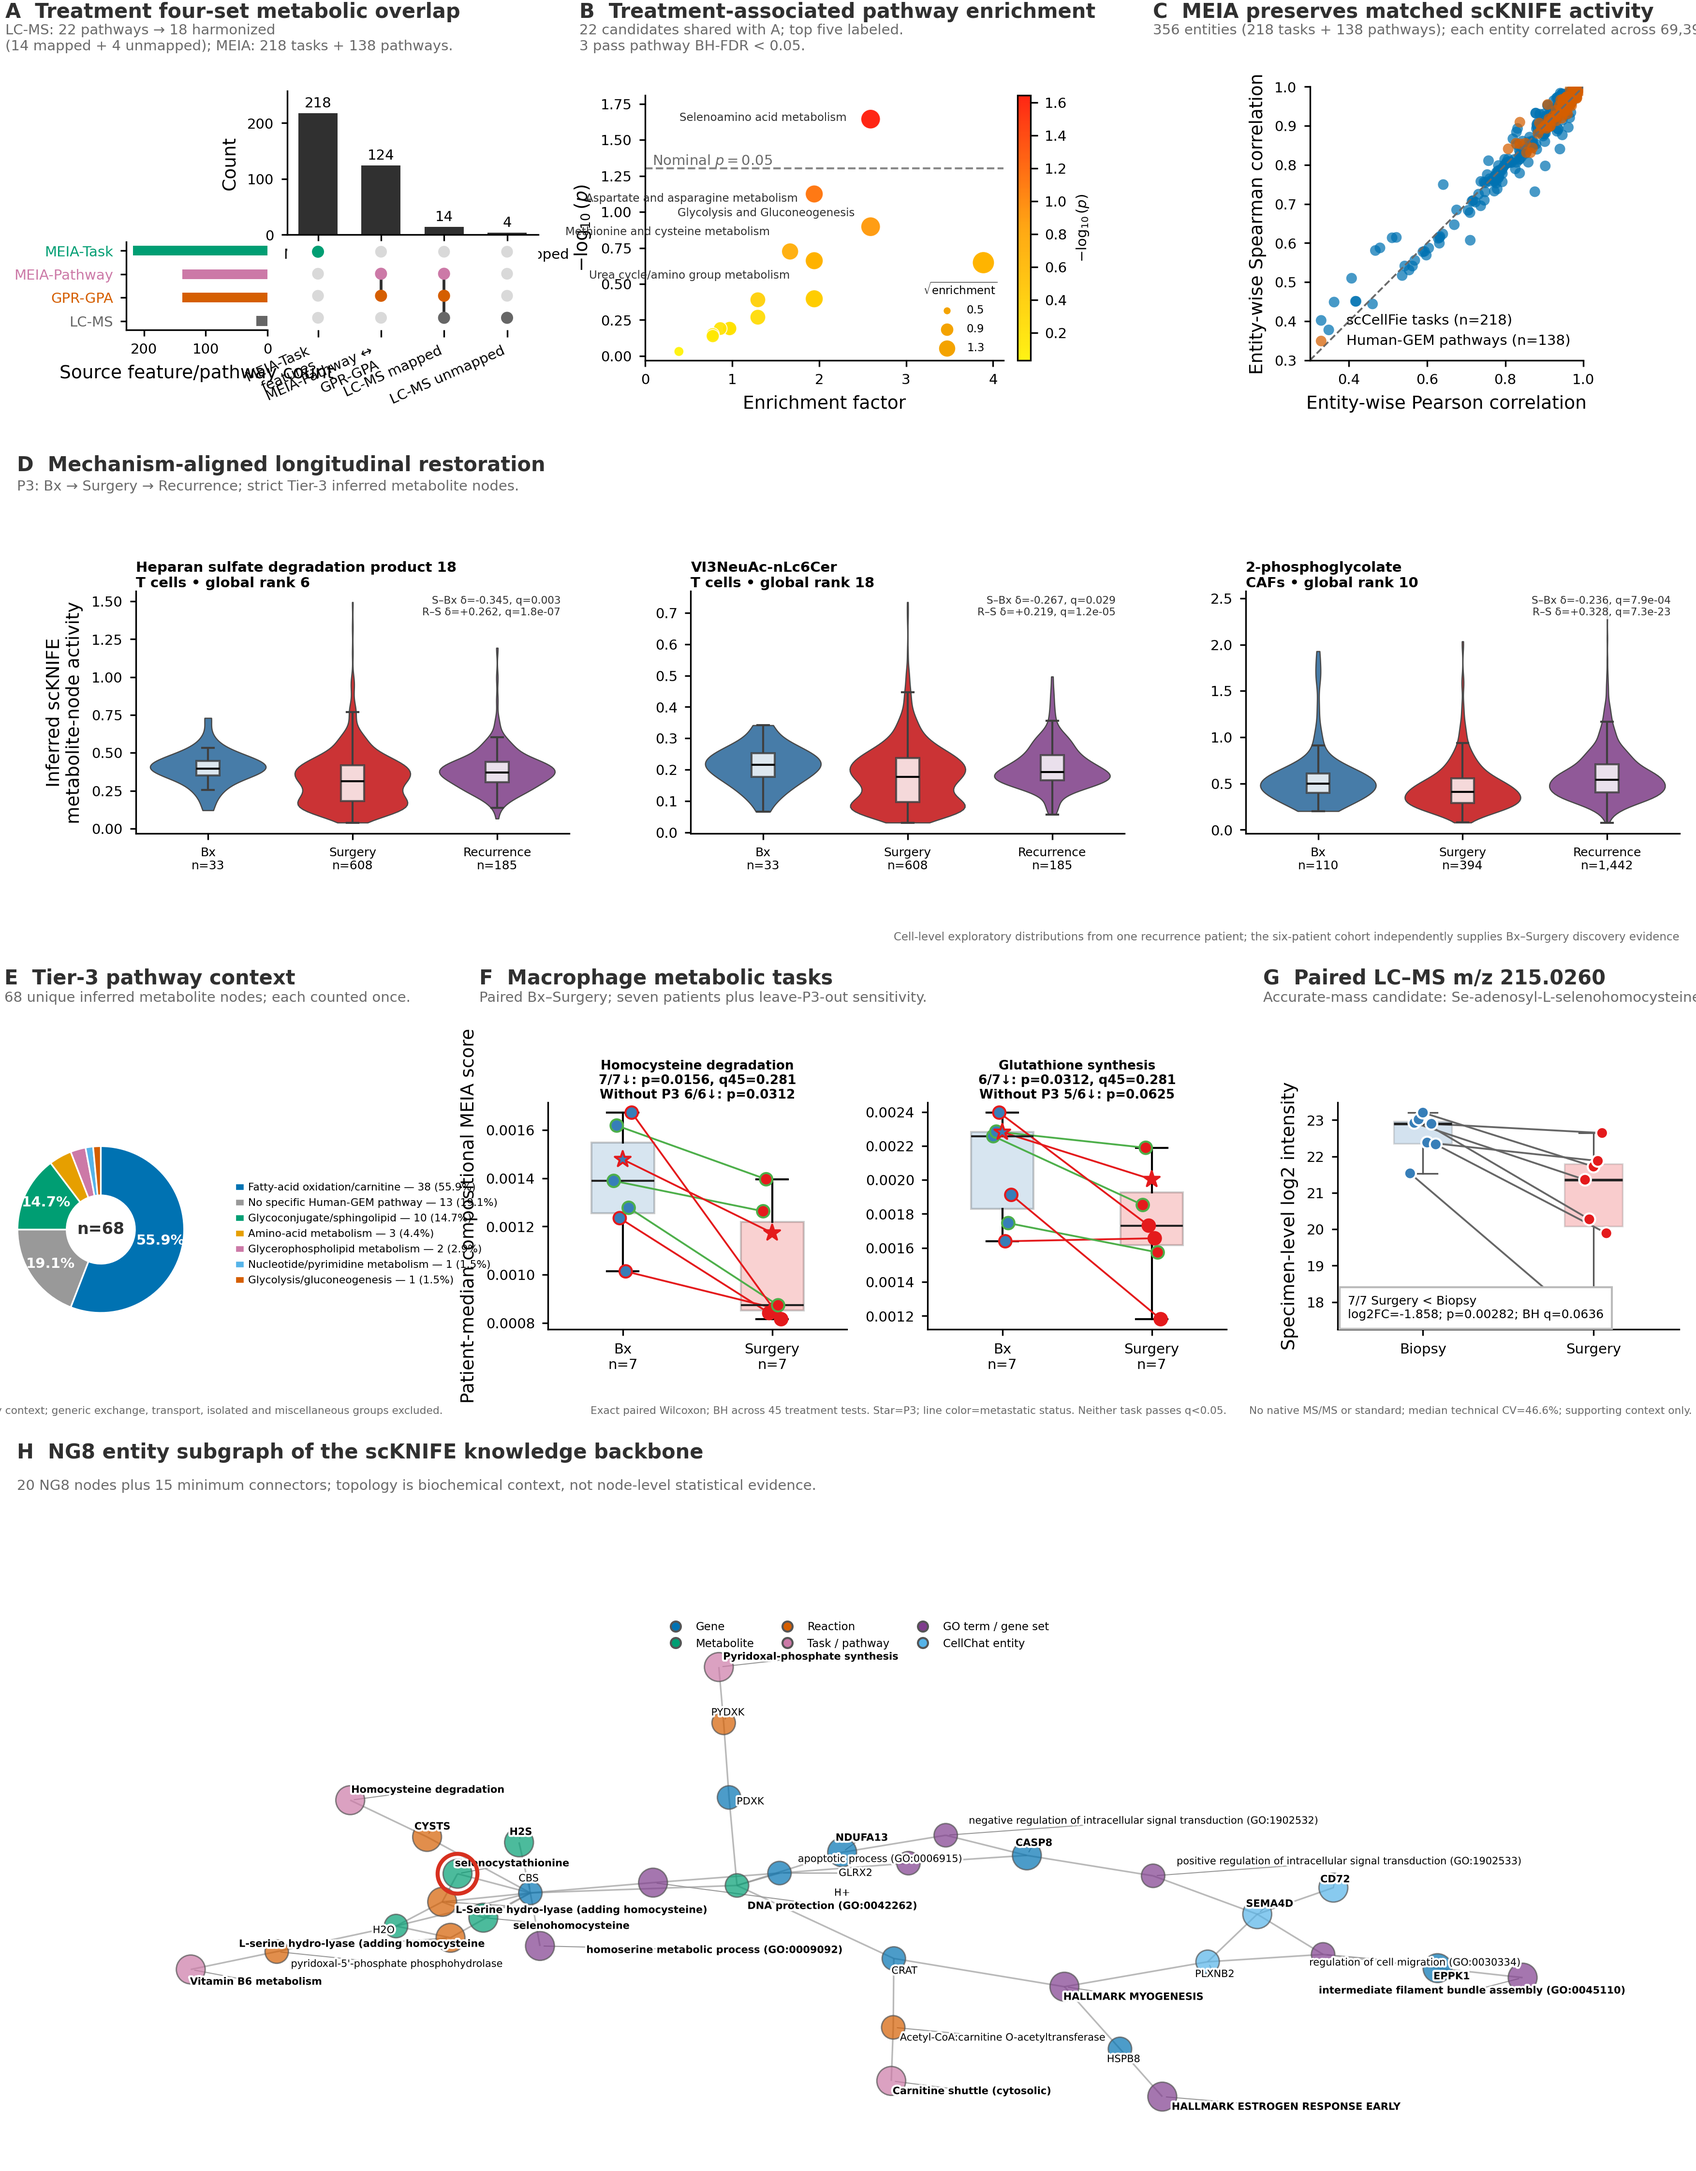
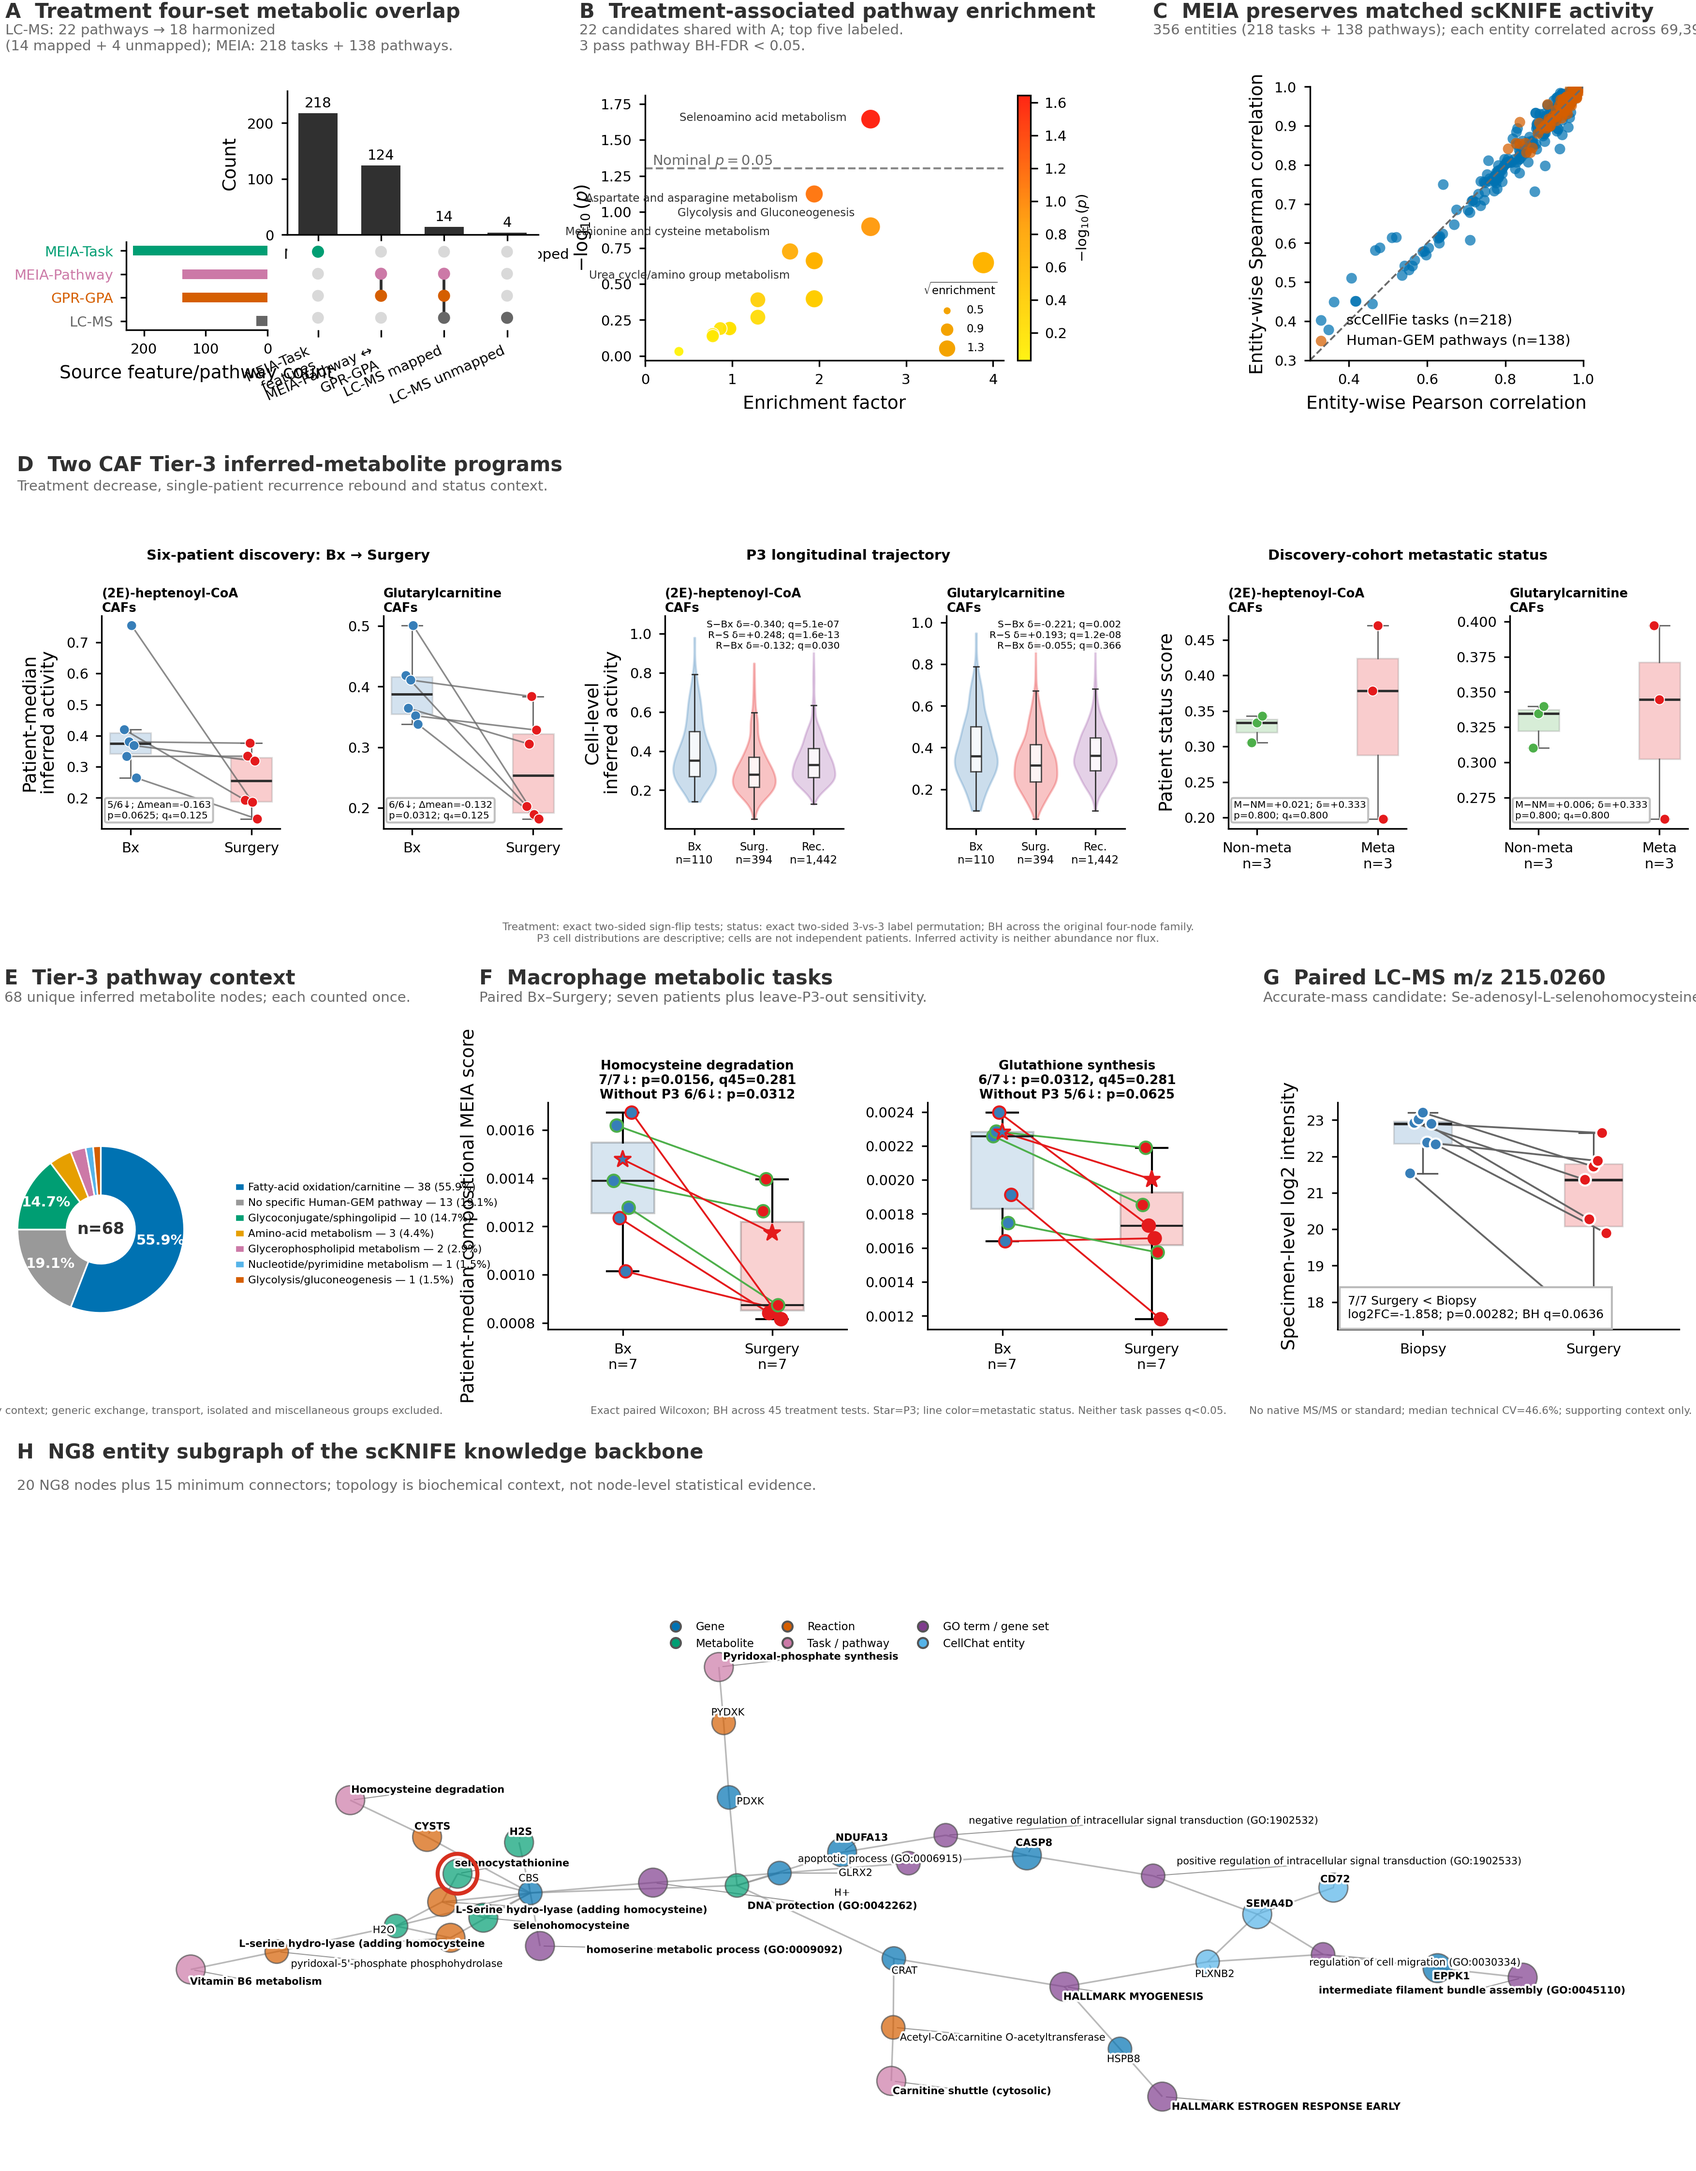
Resynchronize complete Figure 6 package

Changed region(s): [[0.0, 0.2496, 0.6527, 0.4367], [0.6838, 0.2496, 0.9946, 0.4055], [0.0311, 0.1872, 0.3108, 0.2184]]

diff --git a/Figure_6/analysis/migrate_blank_corrected_package.py b/Figure_6/analysis/migrate_blank_corrected_package.py
@@ -842,7 +842,7 @@ for label in {labels!r}:
     plt.show();plt.close(fig)
 (PANEL_ROOT/'{compiled_name}_panel_export_manifest.json').write_text(json.dumps(panel_manifest,indent=2)+\'\\n\')"""},
         {"cell_type":"markdown","metadata":{},"source":"## Compiled vector figure"},
-        {"cell_type":"code","execution_count":None,"metadata":{},"outputs":[],"source":f"fig={compiled_fun}(DATA)\nsave_figure(fig,OUTPUT_ROOT/'{compiled_name}')\nplt.show();plt.close(fig)"},
+        {"cell_type":"code","execution_count":None,"metadata":{},"outputs":[],"source":f"fig={compiled_fun}(DATA)\nsave_figure(fig,OUTPUT_ROOT/'{compiled_name}')\ncompiled_png=OUTPUT_ROOT/'{compiled_name}.png'\npreview_png=OUTPUT_ROOT/'{compiled_name}_preview.png'\npreview_png.write_bytes(compiled_png.read_bytes())\nassert preview_png.read_bytes()==compiled_png.read_bytes()\nplt.show();plt.close(fig)"},
     ]
     return {"cells":cells,"metadata":{"kernelspec":{"display_name":"Python 3","language":"python","name":"python3"},"language_info":{"name":"python","version":"3.9"}},"nbformat":4,"nbformat_minor":5}
 

diff --git a/Figure_6/README.md b/Figure_6/README.md
@@ -2,6 +2,8 @@
 
 Submission legend: [LEGEND.txt](LEGEND.txt).
 
+Current compiled figure: [PNG](outputs/Figure_6.png) | [PDF](outputs/Figure_6.pdf) | [GitHub preview](outputs/Figure_6_preview.png). The preview is refreshed as an exact byte-for-byte copy of the compiled PNG on every render.
+
 Figure_6.ipynb is the authoritative plotting-only entrypoint for main panels A–H. It regenerates every standalone panel and the compiled 297 × 380 mm figure from repository-relative, checksummed inputs.
 
 Story order: A–C establish cross-platform overlap, blank-corrected LC–MS pathway enrichment, and MEIA/direct-scKNIFE concordance; D integrates discovery-cohort treatment, P3 recurrence and metastatic-status evidence for two CAF Tier-3 nodes; E summarizes the metabolic pathway context of 68 robust inferred metabolites; F localizes paired macrophage homocysteine-degradation and glutathione-synthesis task changes; G supplies directionally concordant, accurate-mass-only LC–MS support; H shows the NG8 knowledge-backbone subgraph as biochemical context.

diff --git a/Supplementary/Figure_S6/README.md b/Supplementary/Figure_S6/README.md
@@ -2,6 +2,8 @@
 
 Submission legend: [LEGEND.txt](LEGEND.txt).
 
+Current compiled figure: [PNG](outputs/Figure_S6.png) | [PDF](outputs/Figure_S6.pdf) | [GitHub preview](outputs/Figure_S6_preview.png). The preview is refreshed as an exact byte-for-byte copy of the compiled PNG on every render.
+
 Figure_S6.ipynb is the plotting-only companion to main Figure 6. It regenerates SA, SB, SJ, S1, SFUNNEL, SDIRECTION, SU3 and S2 plus the compiled 297 × 570 mm vector page.
 
 The panels cover metastatic-status overlap and enrichment, GPR-GPA/direct-scKNIFE concordance, patient-level concordance robustness, the Tier-3 filtering cascade, the homocysteine direction screen, the exploratory single-patient Bx–Surgery–Recurrence audit, and the cross-platform 2-aminoethylphosphonate status candidate. Statistical derivations are maintained under Figure_6/analysis/; the plotting notebook consumes frozen checksummed tables only.
